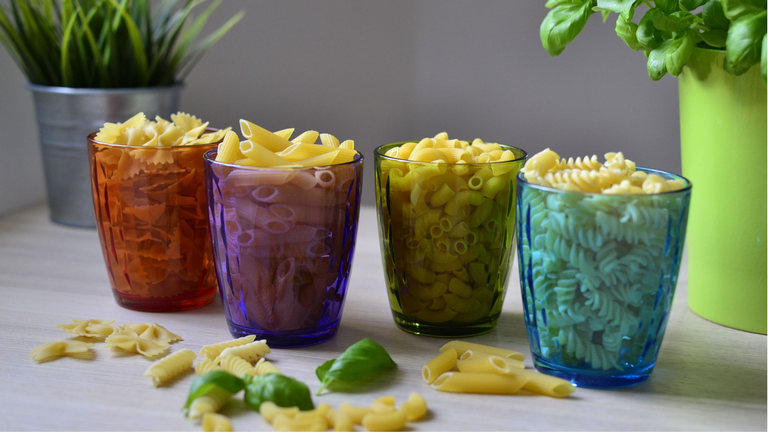
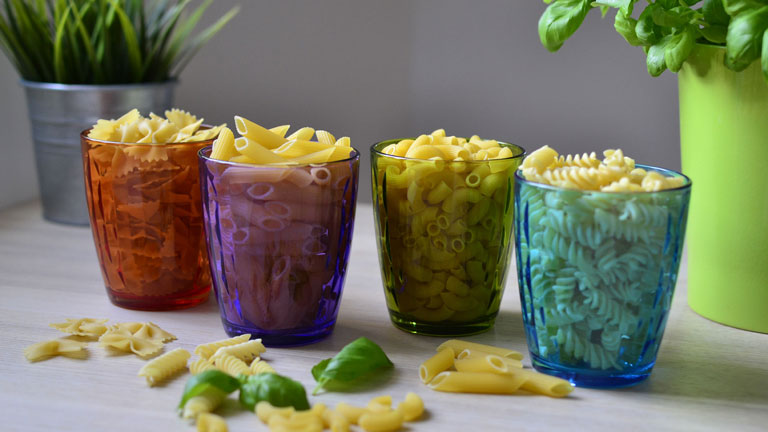
Fixing links css properties and front page header image

diff --git a/src/css/container.css b/src/css/container.css
@@ -1,5 +1,15 @@
 @import url('https://fonts.googleapis.com/css2?family=Poppins:wght@700&display=swap');
 
+.container a {
+    color: #2C4C62;
+    text-decoration: none;
+    transition: 0.4s;
+}
+    .container a:hover {
+        color: rgb(0, 141, 0);
+        transition: 0.4s;
+    }
+
 .article_top {
     flex: 2;
     flex-basis: 100%;
@@ -23,15 +33,6 @@
         line-height: 1.5rem;
         font-size: 1.15rem;
     }
-    .article_top a{
-        color: #2C4C62;
-        text-decoration: none;
-        transition: 0.4s;
-    }
-        .article_top a:hover {
-            color: rgb(0, 141, 0);
-            transition: 0.4s;
-        }
 
     .article_top_container {
         display: flex;
@@ -77,15 +78,8 @@
         font-size: 3rem;
     }
     .article_donate a {
-        color: #2C4C62;
         font-size: 1.25rem;
-        text-decoration: none;
-        transition: 0.4s;
     }
-        .article_donate a:hover {
-            color: rgb(0, 141, 0);
-            transition: 0.4s;
-        }
 
 .article_report {
     flex: 1;
@@ -107,15 +101,8 @@
         font-size: 6rem;
     }
     .article_report a {
-        color: #2C4C62;
         font-size: 1.25rem;
-        text-decoration: none;
-        transition: 0.4s;
     }
-        .article_report a:hover {
-            color: rgb(0, 141, 0);
-            transition: 0.4s;
-        }
         .article_report a i {
             color: #009245;
         }

diff --git a/src/index.html b/src/index.html
@@ -59,7 +59,7 @@
                 <article class="article_donate">
                     <p class="recycle"><i class="fas fa-recycle"></i></p>
                     <h2>Alte Küche spenden?</h2>
-                    <p><a href="#">Erfahre, wie Du deiner alten Küche ein neues Leben schenkst&nbsp;<i class="fas fa-arrow-right"></i></a></p>
+                    <p><a href="#">Erfahre, wie Du deiner alten Küche ein neues Leben<br> schenkst <i class="fas fa-arrow-right"></i></a></p>
                 </article>
                 <article class="article_report">
                     <p class="tree"><i class="fas fa-tree"></i><i class="fas fa-tree"></i><i class="fas fa-tree"></i></p>

diff --git a/src/css/container_diversity.css b/src/css/container_diversity.css
@@ -82,16 +82,9 @@
         }
 
     a {
-        color: #2C4C62;
         font-family: Merriweather, serif;
         font-size: 1.25rem;
-        text-decoration: none;
-        transition: 0.4s;
     }
-        a:hover {
-            color: rgb(182, 182, 182);
-            transition: 0.4s;
-        }
 
 .download {
     flex-basis: 100%;
